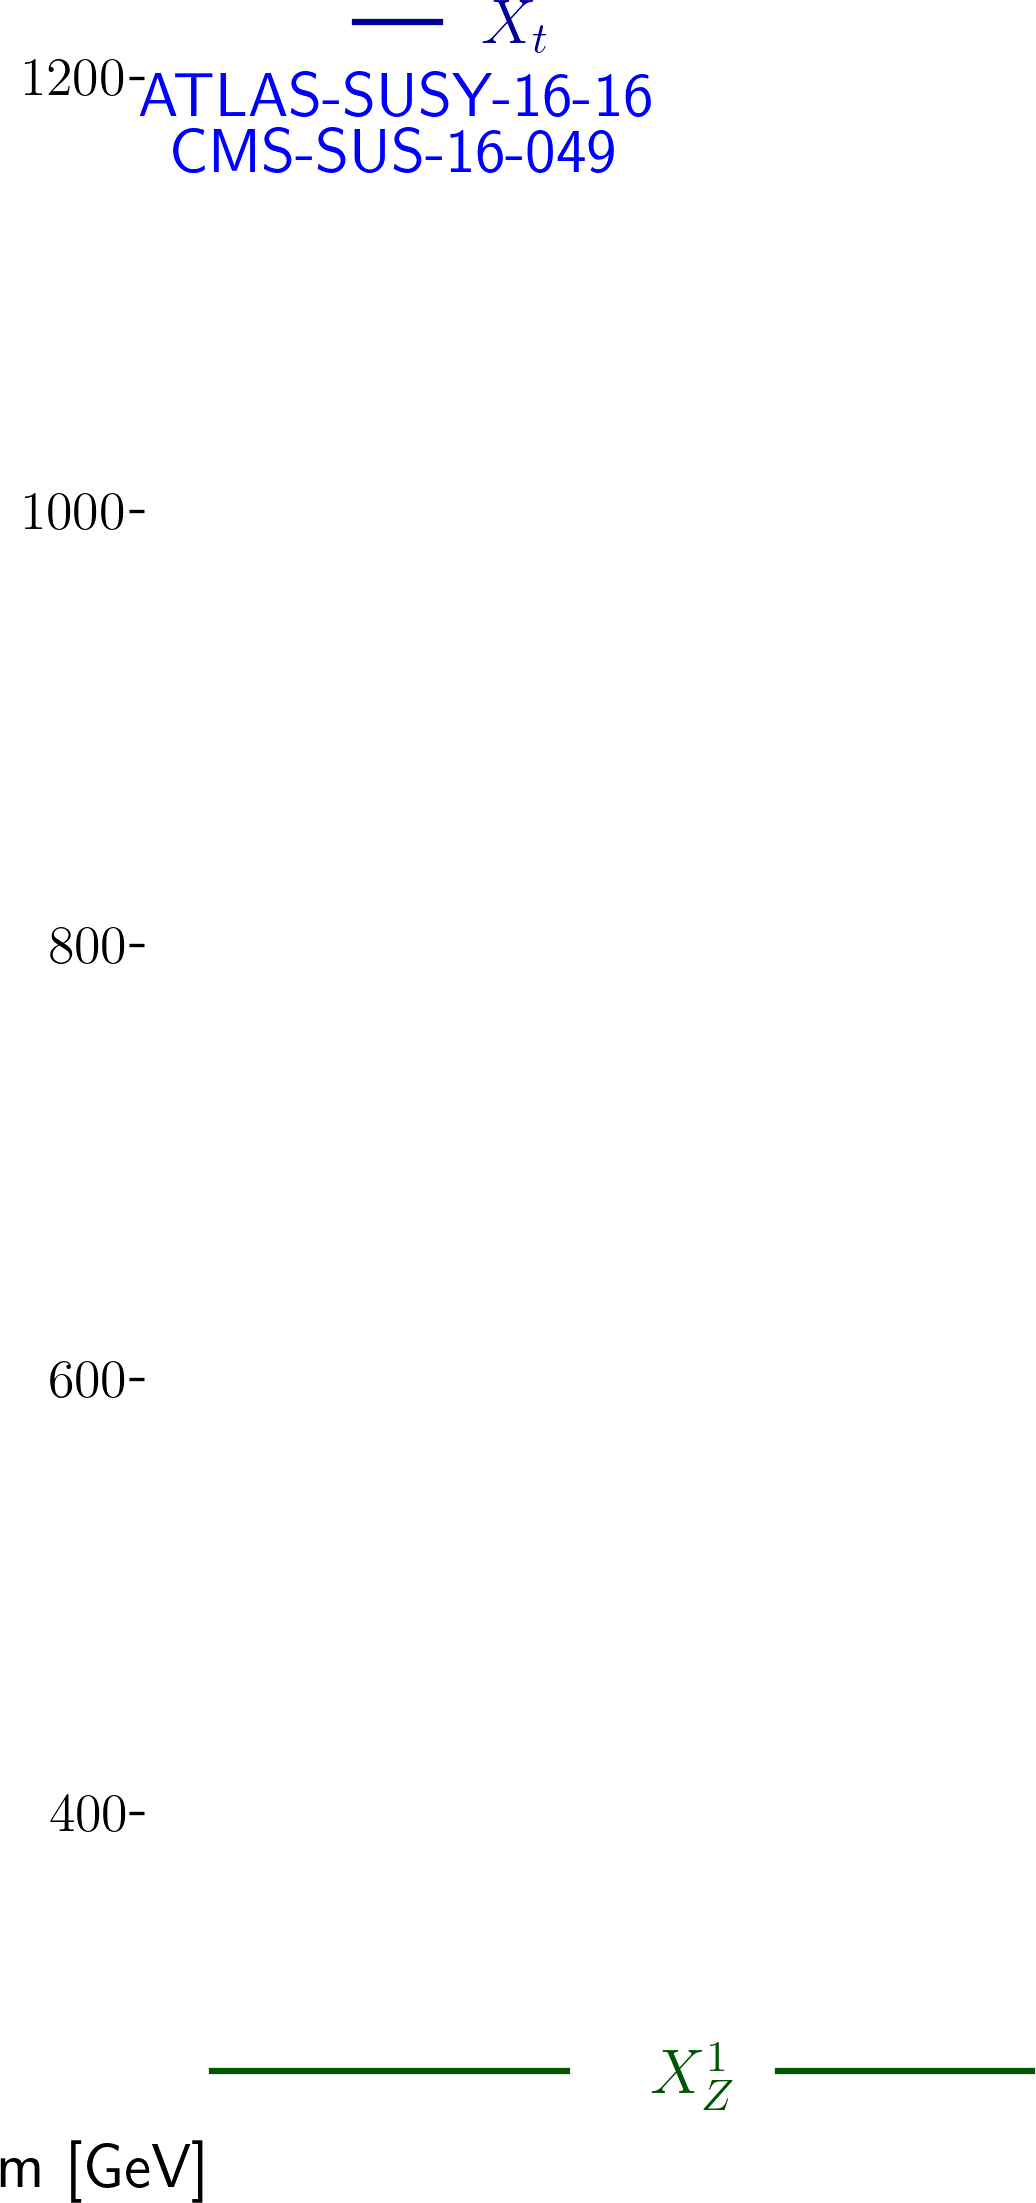
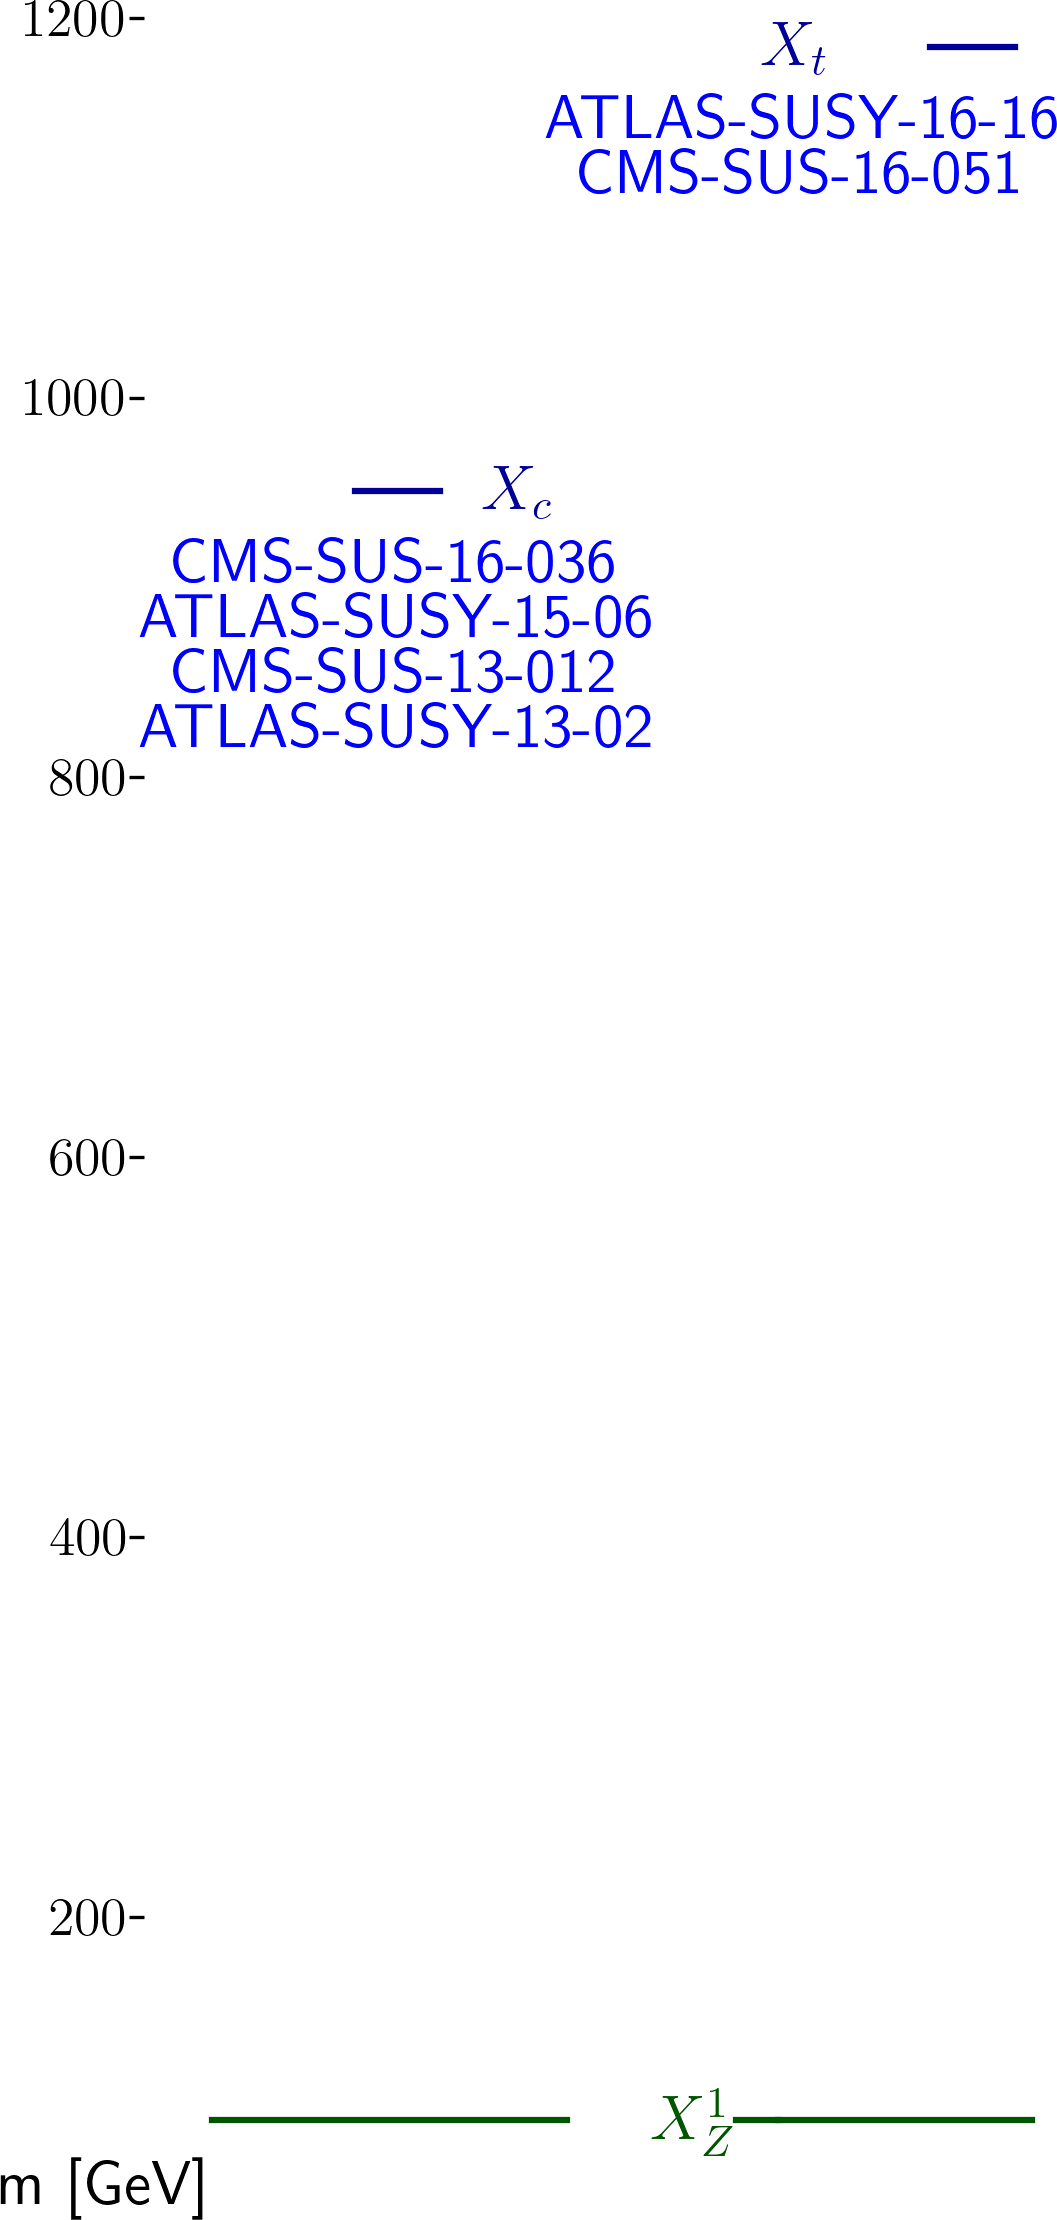
automated update by plotHiscore.py to /scratch-cbe/users/wolfgan.waltenberger/git/smodels.github.io/protomodels

diff --git a/protomodels/2020_PioneerStudy/closure_sampled1/index.html b/protomodels/2020_PioneerStudy/closure_sampled1/index.html
@@ -1,27 +1,31 @@
 <html>
 <body>
 <center>
-<table><td><h1>Current best protomodel: <i>K</i>=9.39</h1><td><img height=60px src=https://smodels.github.io/pics/banner.png></table>
+<table><td><h1>Current best protomodel: <i>K</i>=11.88</h1><td><img height=60px src=https://smodels.github.io/pics/banner.png></table>
 </center>
-<b><a href=./hiscore.slha>ProtoModel</a> <a href=./pmodel.py>(dict)</a> produced with <a href=https://smodels.github.io/docs/Validation124scaled1>database v1.2.4scaled1</a>, combination strategy <a href=./matrix_aggressive.png>aggressive</a> in walker 33 step 925.</b> <i>K</i> plots for: <a href=./M1000022.png?15049761>X<sub>Z</sub><sup>1</sup></a>, <a href=./M1000006.png?15049761>X<sub>t</sub></a>. HPD plots for: <a href=./llhd1000006.png?15049761>X<sub>t</sub></a>. SSM plots for: <a href=./ssm_-1000006_1000006.png?15049761>(x&#772;<sub>t</sub>,X<sub>t</sub>)</a><br>
+<b><a href=./hiscore.slha>ProtoModel</a> <a href=./pmodel.py>(dict)</a> produced with <a href=https://smodels.github.io/docs/Validation124scaled1>database v1.2.4scaled1</a>, combination strategy <a href=./matrix_aggressive.png>aggressive</a> in walker 16 step 940.</b> <i>K</i> plots for: <a href=./M1000022.png?15308724>X<sub>Z</sub><sup>1</sup></a>, <a href=./M1000006.png?15308724>X<sub>t</sub></a>, <a href=./M1000004.png?15308724>X<sub>c</sub></a>. HPD plots for: <a href=./llhd1000006.png?15308724>X<sub>t</sub></a>, <a href=./llhd1000004.png?15308724>X<sub>c</sub></a>. SSM plots for: <a href=./ssm_-1000006_1000006.png?15308724>(x&#772;<sub>t</sub>,X<sub>t</sub>)</a><br>
 <table width=80%>
 <tr><td>
-<br><b>6 predictions available. Highest r values are:</b><br><ul>
-<li><a href=http://cms-results.web.cern.ch/cms-results/public-results/publications/SUS-16-050/index.html>CMS-SUS-16-050</a>:T2tt r=1.28, r<sub>exp</sub>=N/A<br>
-<li><a href=https://atlas.web.cern.ch/Atlas/GROUPS/PHYSICS/PAPERS/SUSY-2016-15/>ATLAS-SUSY-2016-15</a>:T2tt r=0.88, r<sub>exp</sub>=N/A<br>
-<li><a href=http://cms-results.web.cern.ch/cms-results/public-results/publications/SUS-19-006/index.html>CMS-SUS-19-006</a>:T2tt r=0.75, r<sub>exp</sub>=N/A<br>
-<li><a href=http://cms-results.web.cern.ch/cms-results/public-results/publications/SUS-16-049/index.html>CMS-SUS-16-049</a>:T2tt r=0.67, r<sub>exp</sub>=N/A<br>
-<li><a href=https://atlas.web.cern.ch/Atlas/GROUPS/PHYSICS/PAPERS/SUSY-2016-16/>ATLAS-SUSY-2016-16</a>:T2tt r=0.45, r<sub>exp</sub>=N/A<br>
+<br><b>25 predictions available. Highest r values are:</b><br><ul>
+<li><a href=http://cms-results.web.cern.ch/cms-results/public-results/publications/SUS-19-006/index.html>CMS-SUS-19-006</a>:T2tt r=0.94, r<sub>exp</sub>=N/A<br>
+<li><a href=http://cms-results.web.cern.ch/cms-results/public-results/publications/SUS-16-050/index.html>CMS-SUS-16-050</a>:T2tt r=0.87, r<sub>exp</sub>=N/A<br>
+<li><a href=http://cms-results.web.cern.ch/cms-results/public-results/publications/SUS-16-049/index.html>CMS-SUS-16-049</a>:T2tt r=0.85, r<sub>exp</sub>=N/A<br>
+<li><a href=http://cms-results.web.cern.ch/cms-results/public-results/publications/SUS-16-033/index.html>CMS-SUS-16-033</a>:T2tt r=0.71, r<sub>exp</sub>=N/A<br>
+<li><a href=http://cms-results.web.cern.ch/cms-results/public-results/publications/SUS-16-036/index.html>CMS-SUS-16-036</a>:T2tt r=0.68, r<sub>exp</sub>=N/A<br>
 </ul>
 <td><br><b>K values without analyses: (contribution)</b><br>
 <ul>
-<li> <a href=http://cms-results.web.cern.ch/cms-results/public-results/publications/SUS-16-049/index.html>CMS-SUS-16-049</a>: 4.54 (29%)
-<li> <a href=https://atlas.web.cern.ch/Atlas/GROUPS/PHYSICS/PAPERS/SUSY-2016-16/>ATLAS-SUSY-2016-16</a>: -2.25 (71%)
-<td><img width=600px src=./texdoc.png?1608049761>
-<br><font size=-1>Last updated: Tue Dec 15 17:29:21 2020</font>
+<li> <a href=http://atlas.web.cern.ch/Atlas/GROUPS/PHYSICS/PAPERS/SUSY-2015-06/>ATLAS-SUSY-2015-06</a>: 4.87 (13%)
+<li> <a href=http://cms-results.web.cern.ch/cms-results/public-results/publications/SUS-16-036/index.html>CMS-SUS-16-036</a>: 4.28 (14%)
+<li> <a href=https://twiki.cern.ch/twiki/bin/view/CMSPublic/PhysicsResultsSUS13012>CMS-SUS-13-012</a>: 4.28 (14%)
+<li> <a href=http://cms-results.web.cern.ch/cms-results/public-results/publications/SUS-16-051/index.html>CMS-SUS-16-051</a>: 4.28 (14%)
+<li> <a href=https://atlas.web.cern.ch/Atlas/GROUPS/PHYSICS/PAPERS/SUSY-2013-02/>ATLAS-SUSY-2013-02</a>: 4.28 (14%)
+<li> <a href=https://atlas.web.cern.ch/Atlas/GROUPS/PHYSICS/PAPERS/SUSY-2016-16/>ATLAS-SUSY-2016-16</a>: -3.55 (29%)
+<td><img width=600px src=./texdoc.png?1608308724>
+<br><font size=-1>Last updated: Fri Dec 18 17:25:24 2020</font>
 </table><table style="width:80%">
-<td width=45%><img height=580px src=./ruler.png?1608049761><td width=55%><img height=380px src=./decays.png?1608049761>
-<font size=-3><iframe type="text/html" height="220px" width="100%s" frameborder="0" src="./rawnumbers.html?1608049761"></iframe></font>
+<td width=45%><img height=580px src=./ruler.png?1608308724><td width=55%><img height=380px src=./decays.png?1608308724>
+<font size=-3><iframe type="text/html" height="220px" width="100%s" frameborder="0" src="./rawnumbers.html?1608308724"></iframe></font>
 </table>
 </body>
 </html>

diff --git a/protomodels/2020_PioneerStudy/closure_sampled1/rawnumbers.html b/protomodels/2020_PioneerStudy/closure_sampled1/rawnumbers.html
@@ -1,6 +1,10 @@
 <table>
 <tr><th>Analysis Name</th><th>Type</th><th>Dataset</th><th>Topos</th><th>Observed</th><th>Expected</th><th>Approx &sigma;</th><th>Particles</th><th>Signal</th>
 </tr>
-<tr><td><a href=https://atlas.web.cern.ch/Atlas/GROUPS/PHYSICS/PAPERS/SUSY-2016-16/>ATLAS-SUSY-2016-16</a></td><td>em</td> <td>tN_high</td><td>T2tt</td><td>11</td><td>3.8 +/- 1</td><td style="text-align:right">3.3 &sigma;</td><td style="text-align:right">X<sub>t</sub></td><td style="text-align:right">4</td></tr>
-<tr><td><a href=http://cms-results.web.cern.ch/cms-results/public-results/publications/SUS-16-049/index.html>CMS-SUS-16-049</a></td><td>ul</td> <td>-</td><td>T2tt</td><td> 5.1 fb </td><td> 2.5 fb</td><td style="text-align:right">2.0 &sigma;</td><td style="text-align:right">X<sub>t</sub></td><td style="text-align:right">2.62 fb</td></tr>
+<tr><td><a href=https://atlas.web.cern.ch/Atlas/GROUPS/PHYSICS/PAPERS/SUSY-2013-02/>ATLAS-SUSY-2013-02</a></td><td>em</td> <td>SR6jtp</td><td>T2</td><td>5</td><td>4.9 +/- 1.6</td><td style="text-align:right">0.0 &sigma;</td><td style="text-align:right">X<sub>c</sub></td><td style="text-align:right">0</td></tr>
+<tr><td><a href=http://atlas.web.cern.ch/Atlas/GROUPS/PHYSICS/PAPERS/SUSY-2015-06/>ATLAS-SUSY-2015-06</a></td><td>em</td> <td>SR4jt</td><td>T2</td><td>2</td><td>4.1 +/- 1.1</td><td style="text-align:right">-0.9 &sigma;</td><td style="text-align:right">X<sub>c</sub></td><td style="text-align:right">0</td></tr>
+<tr><td><a href=https://atlas.web.cern.ch/Atlas/GROUPS/PHYSICS/PAPERS/SUSY-2016-16/>ATLAS-SUSY-2016-16</a></td><td>em</td> <td>tN_high</td><td>T2tt</td><td>12</td><td>3.8 +/- 1</td><td style="text-align:right">3.7 &sigma;</td><td style="text-align:right">X<sub>t</sub></td><td style="text-align:right">5</td></tr>
+<tr><td><a href=https://twiki.cern.ch/twiki/bin/view/CMSPublic/PhysicsResultsSUS13012>CMS-SUS-13-012</a></td><td>ul</td> <td>-</td><td>T2</td><td> 9.5 fb </td><td> 6.8 fb</td><td style="text-align:right">0.8 &sigma;</td><td style="text-align:right">X<sub>c</sub></td><td style="text-align:right">2.66 fb</td></tr>
+<tr><td><a href=http://cms-results.web.cern.ch/cms-results/public-results/publications/SUS-16-036/index.html>CMS-SUS-16-036</a></td><td>ul</td> <td>-</td><td>T2</td><td> 34.2 fb </td><td> 10.2 fb</td><td style="text-align:right">4.6 &sigma;</td><td style="text-align:right">X<sub>c</sub></td><td style="text-align:right">23.95 fb</td></tr>
+<tr><td><a href=http://cms-results.web.cern.ch/cms-results/public-results/publications/SUS-16-051/index.html>CMS-SUS-16-051</a></td><td>ul</td> <td>-</td><td>T2tt</td><td> 6.9 fb </td><td> 4.3 fb</td><td style="text-align:right">1.2 &sigma;</td><td style="text-align:right">X<sub>t</sub></td><td style="text-align:right">2.62 fb</td></tr>
 </table>

diff --git a/protomodels/2020_PioneerStudy/closure_sampled1/pmodel.py b/protomodels/2020_PioneerStudy/closure_sampled1/pmodel.py
@@ -1,1 +1,1 @@
-{'masses': {1000022: 271.238, 1000006: 1215.586}, 'ssmultipliers': {(1000022, 1000022): 0.0, (1000006, 1000006): 2.337, (-1000006, 1000006): 2.337, (-1000006, -1000006): 2.337, (1000006, 1000022): 2.337, (-1000006, 1000022): 2.337}, 'decays': {1000022: {}, 1000006: {(1000022, 6): 1.0}}, 'timestamp': 'Tue Dec 15 17:29:17 2020', 'Z': 3.411, 'K': 9.388, 'walkerid': 33, 'step': 925, 'codever': '1.0', 'dbver': '1.2.4scaled1'}
+{'masses': {1000022: 82.936, 1000006: 1174.672, 1000004: 940.803}, 'ssmultipliers': {(1000022, 1000022): 0.0, (1000006, 1000006): 1.562, (-1000006, 1000006): 2.244, (-1000006, -1000006): 2.71, (1000006, 1000022): 2.569, (-1000006, 1000022): 3.179, (1000004, 1000004): 1.21, (-1000004, 1000004): 1.21, (-1000004, -1000004): 1.21, (1000004, 1000022): 1.21, (-1000004, 1000022): 1.21, (1000004, 1000006): 1.21, (-1000004, 1000006): 1.21, (-1000006, 1000004): 1.21, (-1000006, -1000004): 1.21}, 'decays': {1000022: {}, 1000006: {(1000022, 6): 1.0}, 1000004: {(1000022, 4): 1.0}}, 'timestamp': 'Fri Dec 18 17:25:15 2020', 'Z': 3.928, 'K': 11.878, 'walkerid': 16, 'step': 940, 'codever': '1.0', 'dbver': '1.2.4scaled1'}
